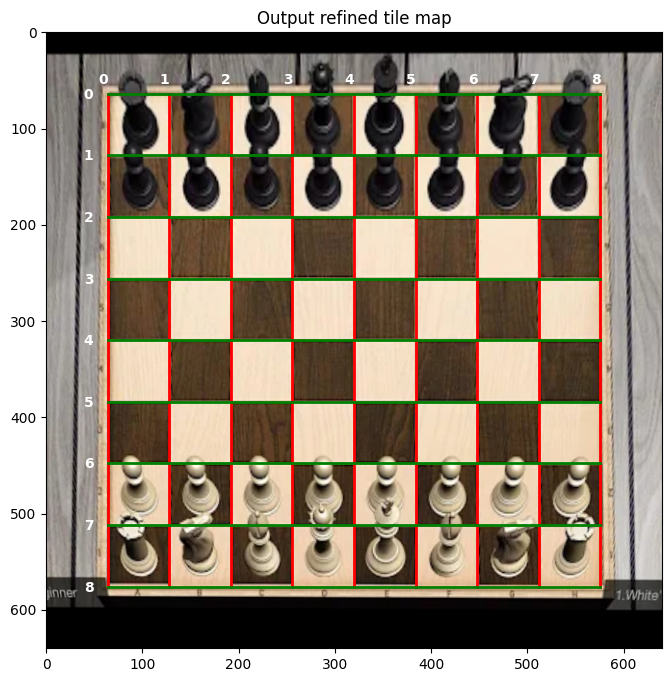
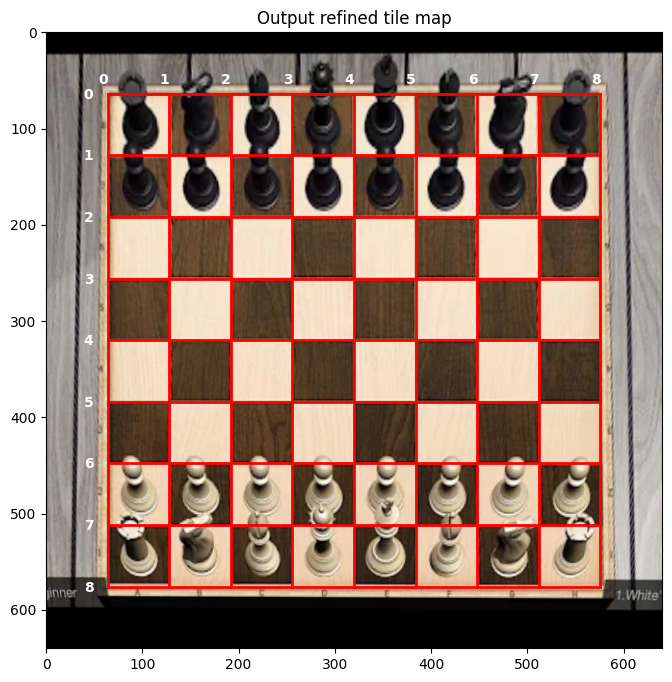
ok

diff --git a/chessboard_detect.py b/chessboard_detect.py
@@ -177,9 +177,10 @@ for i in [23]:
     # Plot Bottom Right: Updated tile map
     #plt.subplot(224,aspect='equal')
     plt.imshow(better_warped_img)
-    
+    pts_x, pts_y = [], []
     for i in range(0,9): #De 0 à 9 pour poouvoir aussi capter les bors de l'échiquier
       ix = (i+tile_buffer)*tile_res
+      pts_x.append(ix)
       iy0 = tile_buffer*tile_res
       plt.plot([ix, ix],
                [iy0,(8+tile_buffer)*tile_res],
@@ -188,10 +189,11 @@ for i in [23]:
     
     for i in range(0,9):
       iy = (i+tile_buffer)*tile_res
+      pts_y.append(iy)
       ix0 = tile_buffer*tile_res
       plt.plot([ix0,(8+tile_buffer)*tile_res],
                [iy, iy],
-               'g', lw=2)
+               'r', lw=2)
       plt.text(ix0-25, iy+5, '%d' % i, color='white', size=10, fontweight='heavy');
 
     plt.title('Output refined tile map')
@@ -201,7 +203,22 @@ for i in [23]:
       output_plot_filename = plot_folder+"/"+filename[:-3]+"png"
       print(" Saving plot to %s" % output_plot_filename)
       plt.savefig(output_plot_filename, bbox_inches='tight')
+    
+    """
+    Mtn qu'on a la position des intersections des cases de l'échiquier normalisé, on va calculer les "couleurs moyennes"
+    sur chaque case (dont on connait les coordonnées) -> permet de les comparer d'une photo à l'autre et donc
+    de savoir si une pièce a bougé ou pas
+    """
+    col_moy = [0 for i in range(64)]
+    print(pts_x)
+    print(better_warped_img.shape)
 
+    for i in range(len(pts_x)-1):
+      for j in range(len(pts_y) - 1):
+        milieu_x = int((pts_x[i]+pts_x[i+1])/2)
+        milieu_y = int((pts_y[i]+pts_y[i+1])/2)
+        col_moy[j + 8*i] = better_warped_img[milieu_x, milieu_y]
+    print(col_moy[0:9])
 print("Done")
 
 if SHOW_PLOTS:
